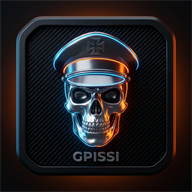
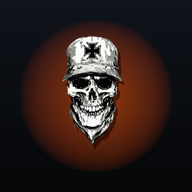
feat: usar caveirasembg.png como icone de atalho oficial no iOS e Android

diff --git a/public/dashboard.html b/public/dashboard.html
@@ -8,7 +8,9 @@
   <link rel="stylesheet" href="/css/style.css">
   
   <!-- Ícone e Atalho para iOS e Android (Home Screen) -->
+  <link rel="apple-touch-icon" href="/images/caveirasembg.png">
   <link rel="apple-touch-icon" sizes="180x180" href="/images/apple-touch-icon.png">
+  <link rel="icon" type="image/png" href="/images/caveirasembg.png">
   <link rel="icon" type="image/png" sizes="32x32" href="/images/favicon-32x32.png">
   <link rel="icon" type="image/png" sizes="16x16" href="/images/favicon-16x16.png">
   <link rel="manifest" href="/manifest.json">

diff --git a/public/index.html b/public/index.html
@@ -8,7 +8,9 @@
   <link rel="stylesheet" href="/css/style.css">
   
   <!-- Ícone e Atalho para iOS e Android (Home Screen) -->
+  <link rel="apple-touch-icon" href="/images/caveirasembg.png">
   <link rel="apple-touch-icon" sizes="180x180" href="/images/apple-touch-icon.png">
+  <link rel="icon" type="image/png" href="/images/caveirasembg.png">
   <link rel="icon" type="image/png" sizes="32x32" href="/images/favicon-32x32.png">
   <link rel="icon" type="image/png" sizes="16x16" href="/images/favicon-16x16.png">
   <link rel="manifest" href="/manifest.json">

diff --git a/public/lista.html b/public/lista.html
@@ -8,7 +8,9 @@
   <link rel="stylesheet" href="/css/style.css">
   
   <!-- Ícone e Atalho para iOS e Android (Home Screen) -->
+  <link rel="apple-touch-icon" href="/images/caveirasembg.png">
   <link rel="apple-touch-icon" sizes="180x180" href="/images/apple-touch-icon.png">
+  <link rel="icon" type="image/png" href="/images/caveirasembg.png">
   <link rel="icon" type="image/png" sizes="32x32" href="/images/favicon-32x32.png">
   <link rel="icon" type="image/png" sizes="16x16" href="/images/favicon-16x16.png">
   <link rel="manifest" href="/manifest.json">

diff --git a/public/novo.html b/public/novo.html
@@ -8,7 +8,9 @@
   <link rel="stylesheet" href="/css/style.css">
   
   <!-- Ícone e Atalho para iOS e Android (Home Screen) -->
+  <link rel="apple-touch-icon" href="/images/caveirasembg.png">
   <link rel="apple-touch-icon" sizes="180x180" href="/images/apple-touch-icon.png">
+  <link rel="icon" type="image/png" href="/images/caveirasembg.png">
   <link rel="icon" type="image/png" sizes="32x32" href="/images/favicon-32x32.png">
   <link rel="icon" type="image/png" sizes="16x16" href="/images/favicon-16x16.png">
   <link rel="manifest" href="/manifest.json">

diff --git a/public/tracker.html b/public/tracker.html
@@ -8,7 +8,9 @@
   <link rel="stylesheet" href="/css/style.css">
   
   <!-- Ícone e Atalho para iOS e Android (Home Screen) -->
+  <link rel="apple-touch-icon" href="/images/caveirasembg.png">
   <link rel="apple-touch-icon" sizes="180x180" href="/images/apple-touch-icon.png">
+  <link rel="icon" type="image/png" href="/images/caveirasembg.png">
   <link rel="icon" type="image/png" sizes="32x32" href="/images/favicon-32x32.png">
   <link rel="icon" type="image/png" sizes="16x16" href="/images/favicon-16x16.png">
   <link rel="manifest" href="/manifest.json">
